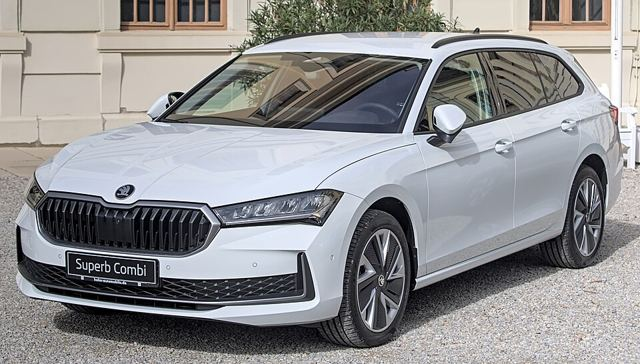
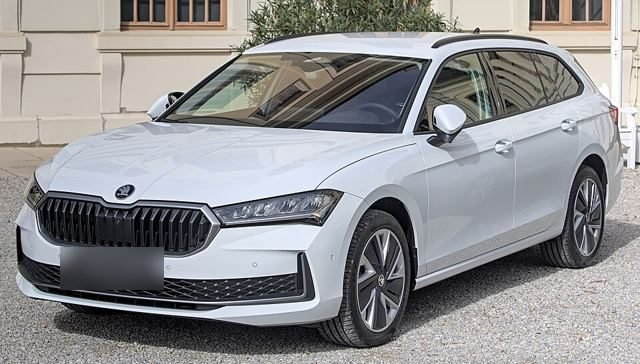
Škoda Superb : plaque floutée
La plaque « Superb Combi » donnait la réponse. Une migration remplace la photo déjà enregistrée en base.

Changed region(s): [[0.0938, 0.6648, 0.2812, 0.8159]]

diff --git a/pocketbase/pb_migrations/1790000008_photos_floutees_2.js b/pocketbase/pb_migrations/1790000008_photos_floutees_2.js
@@ -1,0 +1,23 @@
+/// <reference path="../pb_data/types.d.ts" />
+
+/* Photo corrigée après coup, comme dans 1790000006 : la plaque « Superb
+   Combi » donnait la réponse sur la Škoda Superb. Remplace l'image déjà
+   enregistrée en base. */
+migrate((app) => {
+  const corrigees = ["Škoda Superb"];
+  const modeles = JSON.parse(toString($os.readFile("donnees/modeles.json")));
+
+  for (const q of modeles.filter((m) => corrigees.indexOf(m.reponse) !== -1)) {
+    const existantes = app.findRecordsByFilter(
+      "questions", "mode = {:mode} && reponse = {:reponse}", "", 1, 0,
+      { mode: q.mode, reponse: q.reponse },
+    );
+    for (const question of existantes) {
+      question.set("image", $filesystem.fileFromPath(`donnees/images/${q.fichier}`));
+      question.set("auteur", q.auteur || "");
+      app.save(question);
+    }
+  }
+}, () => {
+  // Rien à défaire : l'ancienne photo donnait la réponse.
+});
